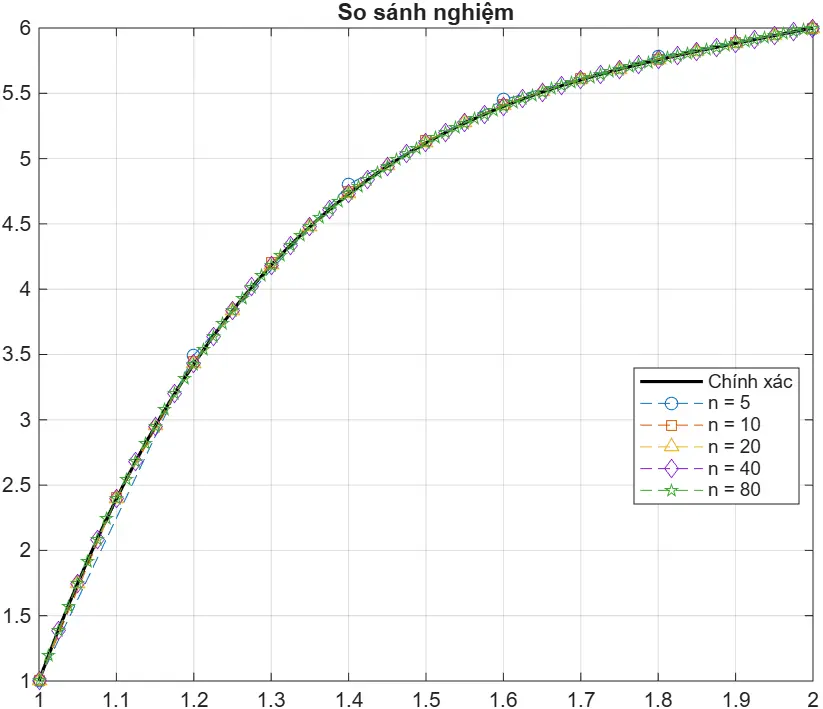
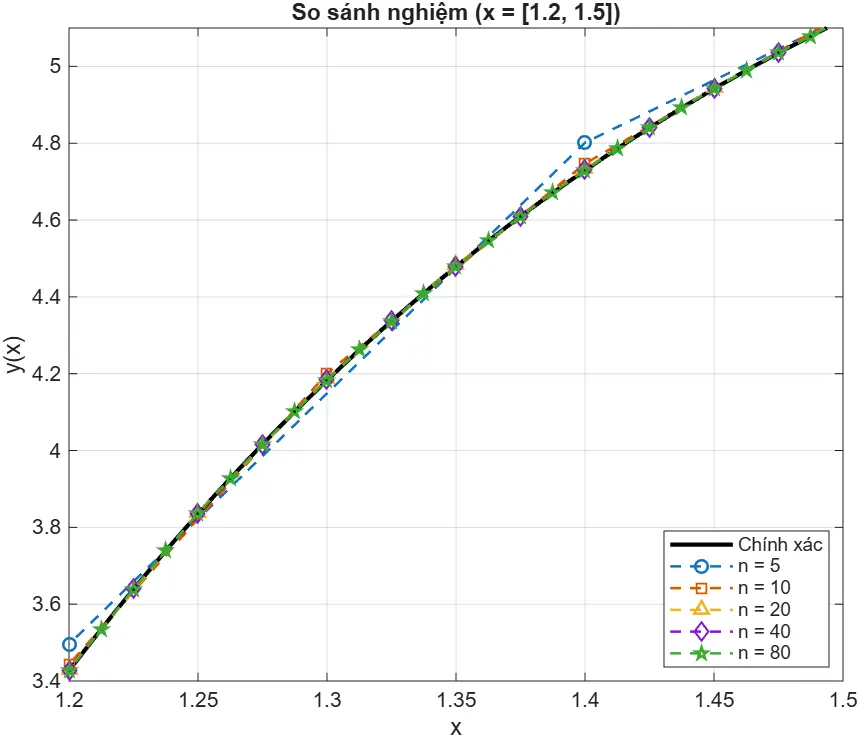
vault backup: 2026-06-02 16:13:09

diff --git a/Content/Giai tich so/THGTS_Tuần 8.md b/Content/Giai tich so/THGTS_Tuần 8.md
@@ -42,7 +42,22 @@
 > \begin{pmatrix} -1.92 & 1.3 & 0 & 0 \\ 0.7 & -1.92 & 1.3 & 0 \\ 0 & 0.7 & -1.92 & 1.3 \\ 0 & 0 & 0.7 & -1.92 \end{pmatrix} \begin{pmatrix} y_1 \\ y_2 \\ y_3 \\ y_4 \end{pmatrix} = \begin{pmatrix} -0.4696 \\ 0.3136 \\ 0.4096 \\ -7.2816 \end{pmatrix}
 > $$
 > 
->3. Code
+> 3. Bảng sai số 
+> $$
+> \begin{array}{|c|c|c|}
+> \hline
+> n & h & \text{Sai số lớn nhất } \mathcal{O}(h^2) \\
+> \hline
+> 5  & 2.0000 \times 10^{-1} & 1.3414 \times 10^{-2} \\
+> 10 & 1.0000 \times 10^{-1} & 3.4216 \times 10^{-3} \\
+> 20 & 5.0000 \times 10^{-2} & 8.6015 \times 10^{-4} \\
+> 40 & 2.0000 \times 10^{-2} & 2.1534 \times 10^{-4} \\
+> 80 & 1.0000 \times 10^{-2} & 5.3853 \times 10^{-5} \\
+> \hline
+> \end{array}
+> $$
+>
+> 4. Code
 > - bvp_fdm.m
 > > [!code]- Matlab
 > > ```matlab
@@ -88,60 +103,44 @@
 > > ```matlab
 > > clc; clear; close all;
 > > 
-> > %% 1. Khai bao
-> > p = @(x) 3;
-> > q = @(x) 2;
-> > r = @(x) 4*x^2; 
-> > 
-> > a = 1; b = 2;
-> > alpha = 1; beta = 6;
+> > % Du lieu bai toan
+> > p = @(x) 3; q = @(x) 2; r = @(x) 4*x^2; 
+> > a = 1; b = 2; alpha = 1; beta = 6;
 > > 
 > > n_array = [5; 10; 20; 40; 80]; 
 > > h_array = (b - a) ./ n_array;
 > > max_err = zeros(length(n_array), 1);
 > > 
-> > %% 2. Nghiem chinh xac
+> > % Nghiem chinh xac
 > > A_mat = [exp(-1), exp(-2); exp(-2), exp(-4)];
 > > B_mat = [1 - (2*1^2 - 6*1 + 7); 6 - (2*2^2 - 6*2 + 7)];
 > > C = A_mat \ B_mat;
 > > y_exact = @(x) C(1)*exp(-x) + C(2)*exp(-2*x) + 2*x.^2 - 6*x + 7;
 > > 
-> > %% 3. Tinh toan va ve do thi
+> > % Tinh toan va ve do thi
 > > figure('Color', 'w');
 > > x_plot = linspace(a, b, 200);
-> > plot(x_plot, y_exact(x_plot), 'k-', 'LineWidth', 1.5); hold on;
+> > plot(x_plot, y_exact(x_plot), 'k-', 'LineWidth', 2); hold on;
 > > 
-> > colors = lines(length(n_array)); 
-> > markers = {'o', 's', '^', 'd', 'p'};
+> > colors = lines(length(n_array)); markers = {'o', 's', '^', 'd', 'p'};
 > > 
 > > for i = 1:length(n_array)
-> >     n = n_array(i);
-> >     [x_app, y_app] = bvp_fdm(p, q, r, a, b, alpha, beta, n);
-> >     
-> >     % Tinh sai so lon nhat
-> >     max_err(i) = max(abs(y_exact(x_app) - y_app));
-> >     
-> >     % Ve do thi
-> >     plot(x_app, y_app, '--', 'Marker', markers{i}, 'Color', colors(i,:));
+> >     [x_app, y_app] = bvp_fdm(p, q, r, a, b, alpha, beta, n_array(i));
+> >     max_err(i) = max(abs(y_exact(x_app) - y_app)); % Ghi nhận sai số
+> >     plot(x_app, y_app, '--', 'Marker', markers{i}, 'Color', colors(i,:), 'LineWidth', 1.2);
 > > end
 > > 
-> > legend_str = ['Chinh xac', arrayfun(@(n) sprintf('n = %d', n), n_array', 'UniformOutput', false)];
-> > legend(legend_str, 'Location', 'best');
-> > title('So sanh nghiem'); grid on; hold off;
+> > xlim([1.2, 1.5]); 
+> > ylim([3.4, 5.1]); 
 > > 
-> > %% 4. Hien thi ket qua
-> > disp('--- BANG SAI SO LON NHAT ---');
-> > bang_tong_hop = table(n_array, h_array, max_err, 'VariableNames', {'n', 'h', 'Max_Err'});
-> > disp(bang_tong_hop);
+> > legend(['Chính xác', arrayfun(@(n) sprintf('n = %d', n), n_array', 'UniformOutput', false)], 'Location', 'best');
+> > title('So sánh nghiệm (x = [1.2, 1.5])'); 
+> > xlabel('x'); ylabel('y(x)'); grid on; hold off;
 > > 
-> > % Lay du lieu rieng cho n = 5
-> > [x5, y5] = bvp_fdm(p, q, r, a, b, alpha, beta, 5);
-> > y5_true = y_exact(x5);
-> > err5 = abs(y5_true - y5);
-> > 
-> > disp('--- CHI TIET TAI n = 5 ---');
-> > bang_n5 = table(x5, y5, y5_true, err5, 'VariableNames', {'x', 'y_xapxi', 'y_dung', 'Sai_so'});
-> > disp(bang_n5);
+> > % Hien thi bang sai so
+> > disp('--- BẢNG SAI SỐ THEO CÁC TRƯỜNG HỢP N ---');
+> > bang_sai_so = table(n_array, h_array, max_err, 'VariableNames', {'n', 'h', 'Max_Error'});
+> > disp(bang_sai_so);
 > > ```
 > 
 > ![[THGTS_Tuần 8 - Bài 1.webp]]
